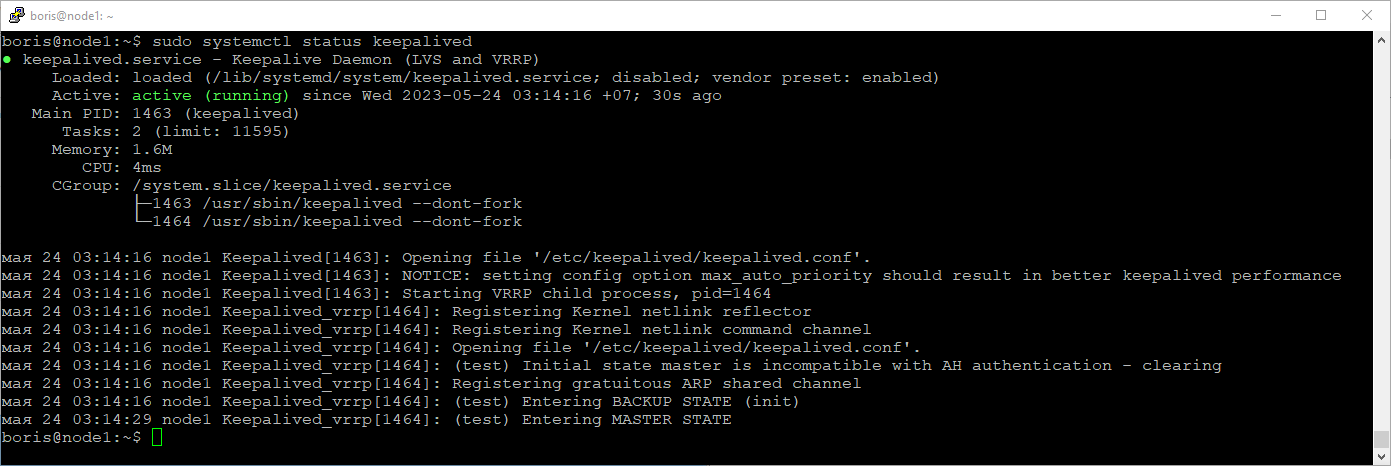
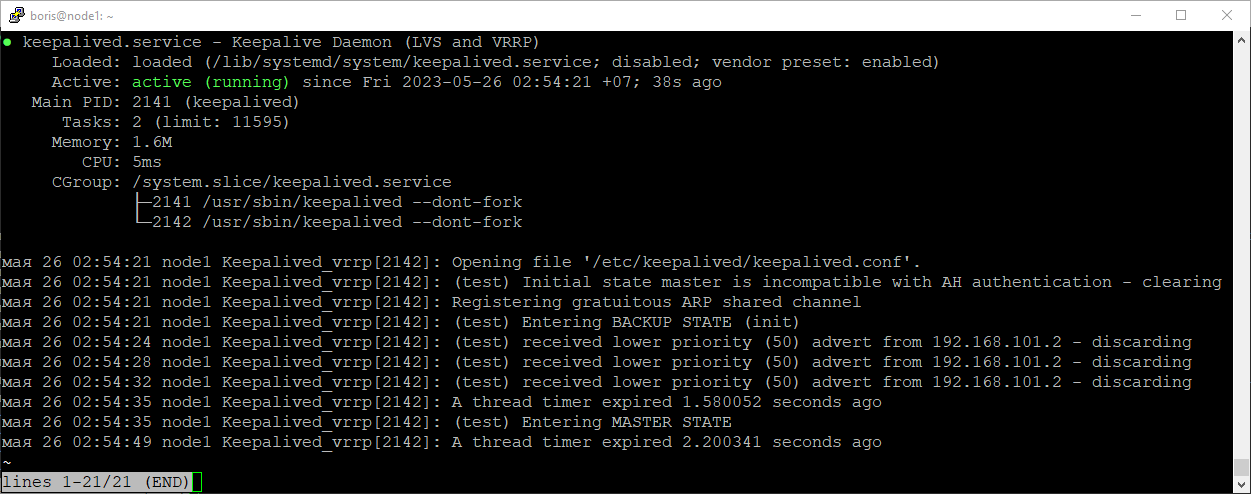
Home work 10.1 Keepalived/vrrp. Task 1 Edited 2

Changed region(s): [[0.0, 0.0, 1.0, 1.0]]

diff --git a/hw-10.1_Keepalived_vrrp/README.md b/hw-10.1_Keepalived_vrrp/README.md
@@ -50,19 +50,18 @@ virtual_ipaddress {
 Конфигурационный файл /etc/keepalived/keepalived.conf для первой ноды:
 
 ```
-vrrp_instance test {
 state MASTER
 interface enp0s9
 virtual_router_id 11
 priority 110
-advert_int 5
+advert_int 4
 authentication {
 auth_type AH
 auth_pass 1111
 }
-unicast_src_ip 192.168.102.1
+unicast_src_ip 192.168.101.1
 unicast_peer {
-192.168.102.2
+192.168.101.2
 }
 virtual_ipaddress {
 192.168.102.200 dev enp0s9 label enp0s9:vip
@@ -79,14 +78,14 @@ state BACKUP
 interface enp0s9
 virtual_router_id 11
 priority 50
-advert_int 5
+advert_int 4
 authentication {
 auth_type AH
 auth_pass 1111
 }
-unicast_src_ip 192.168.102.2
+unicast_src_ip 192.168.101.2
 unicast_peer {
-192.168.102.1
+192.168.101.1
 }
 virtual_ipaddress {
 192.168.102.200 dev enp0s9 label enp0s9:vip
